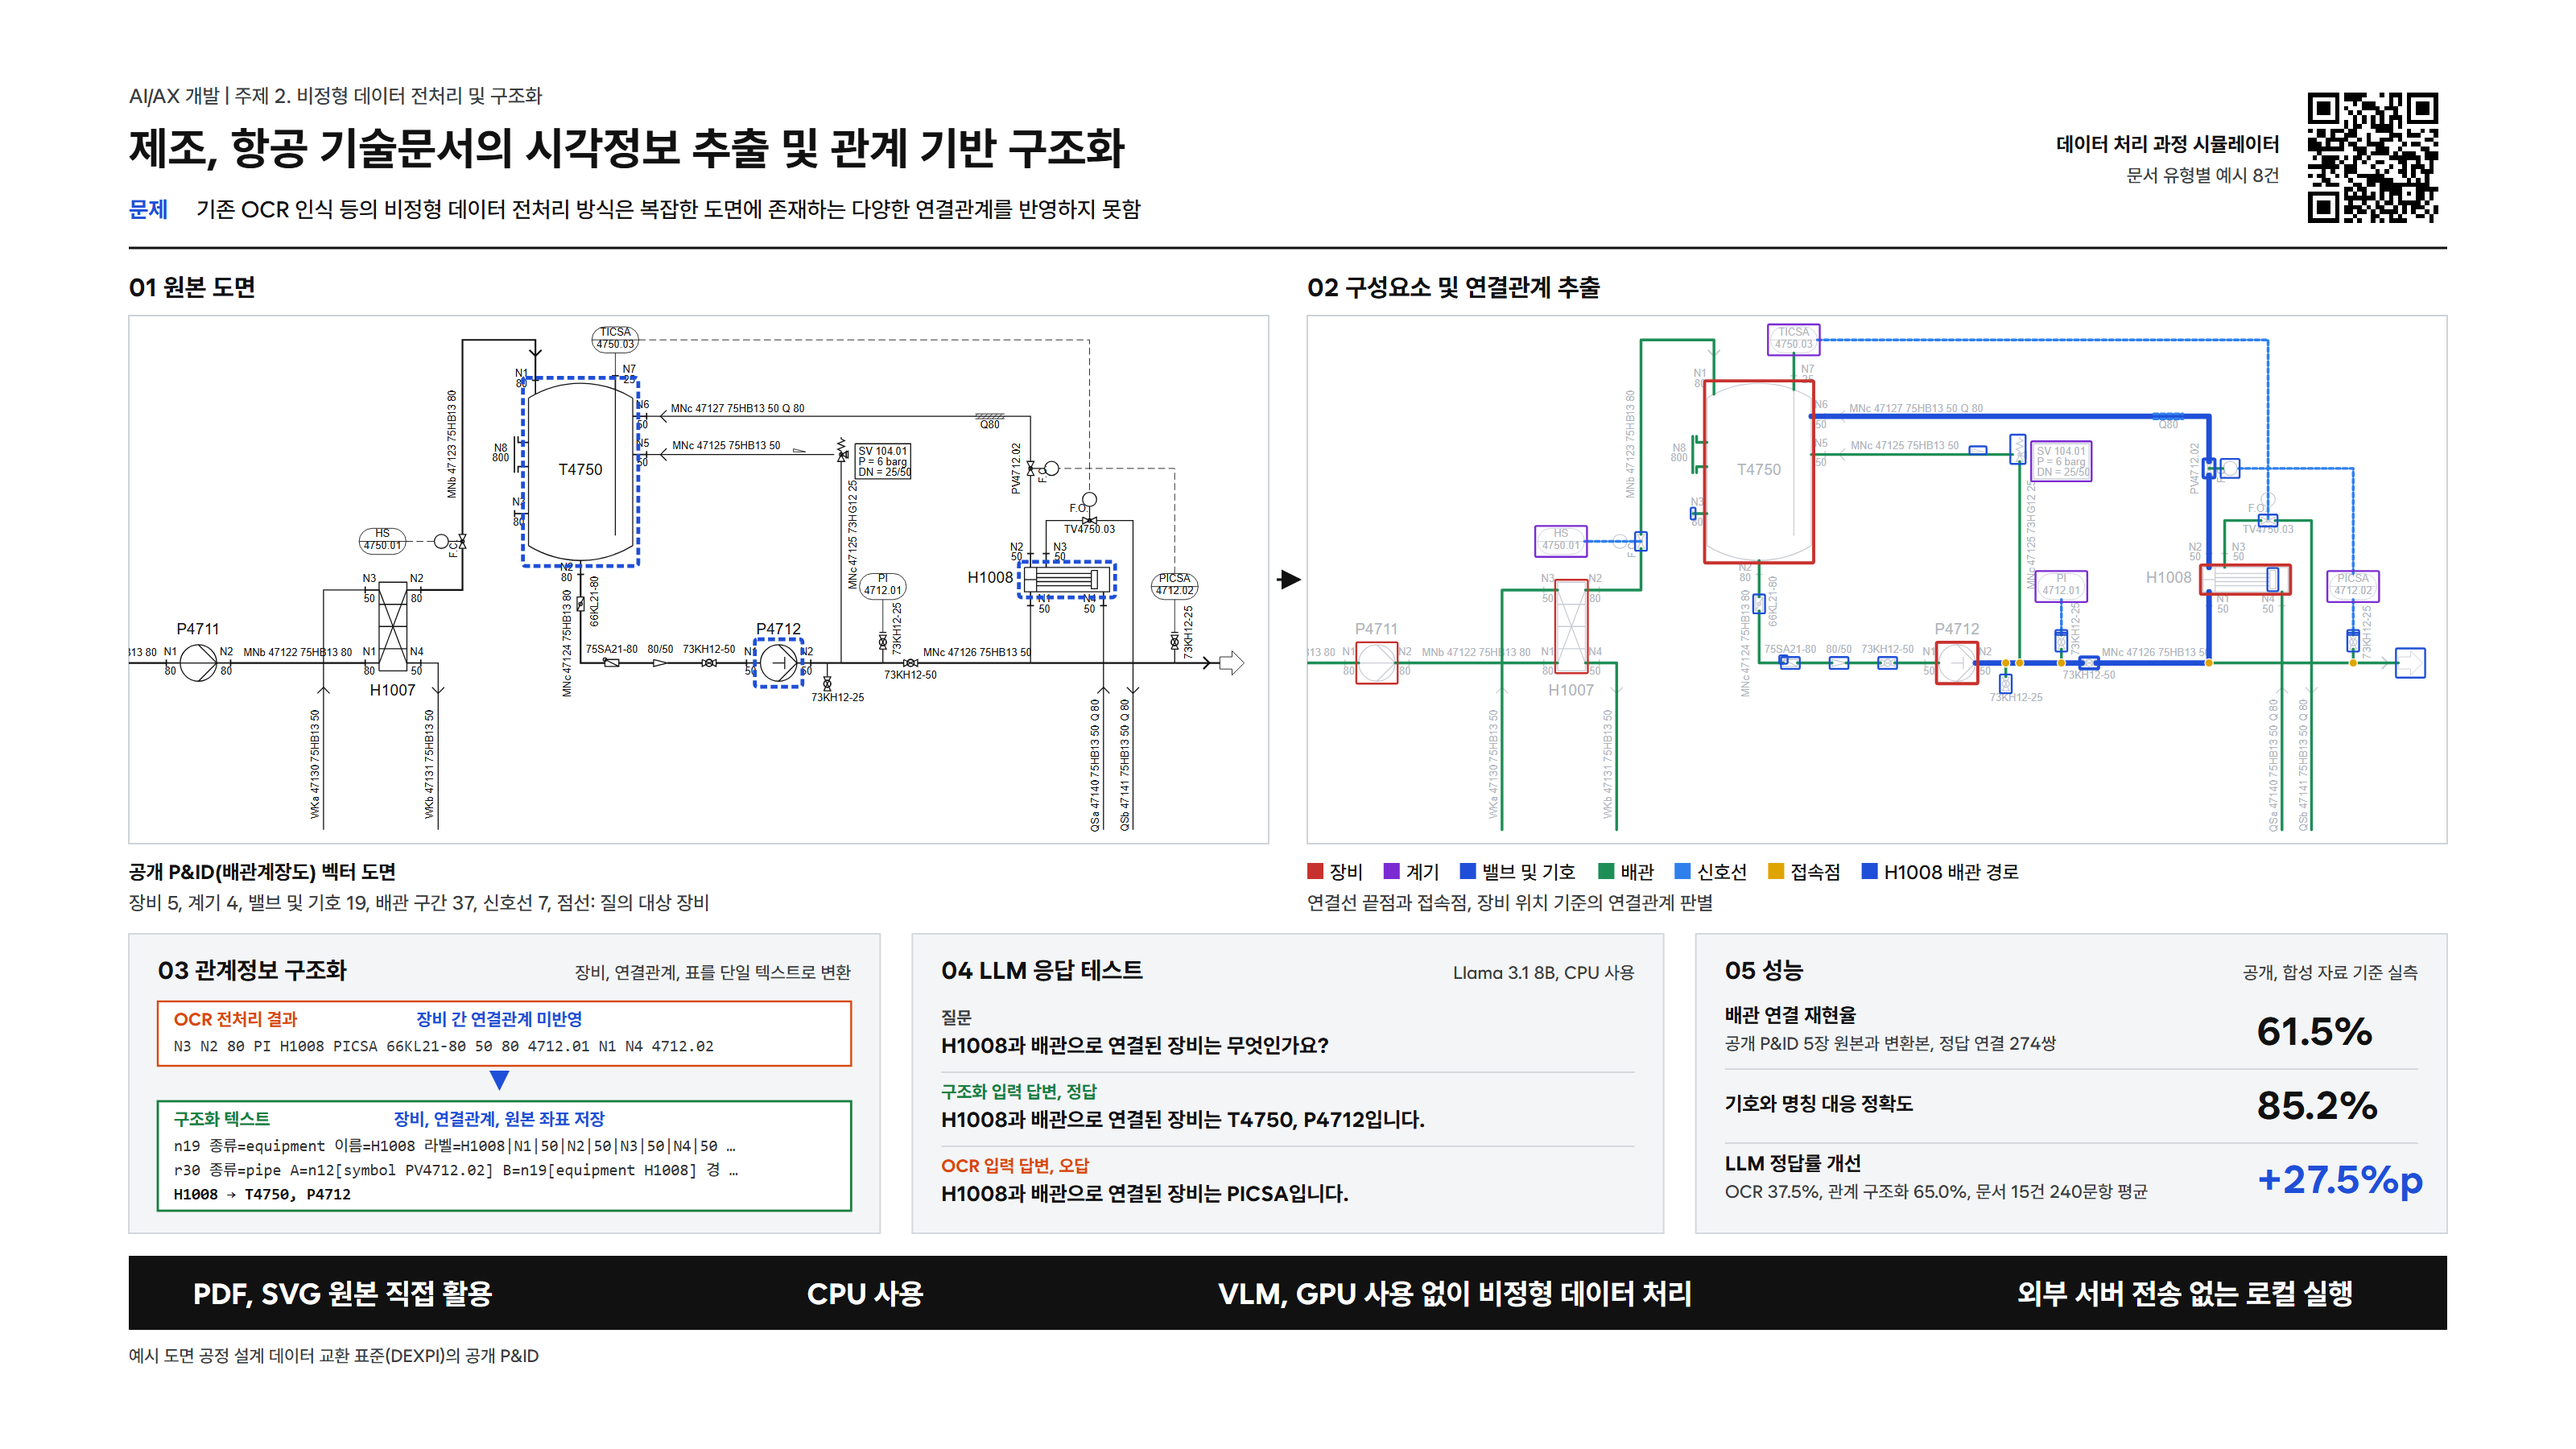
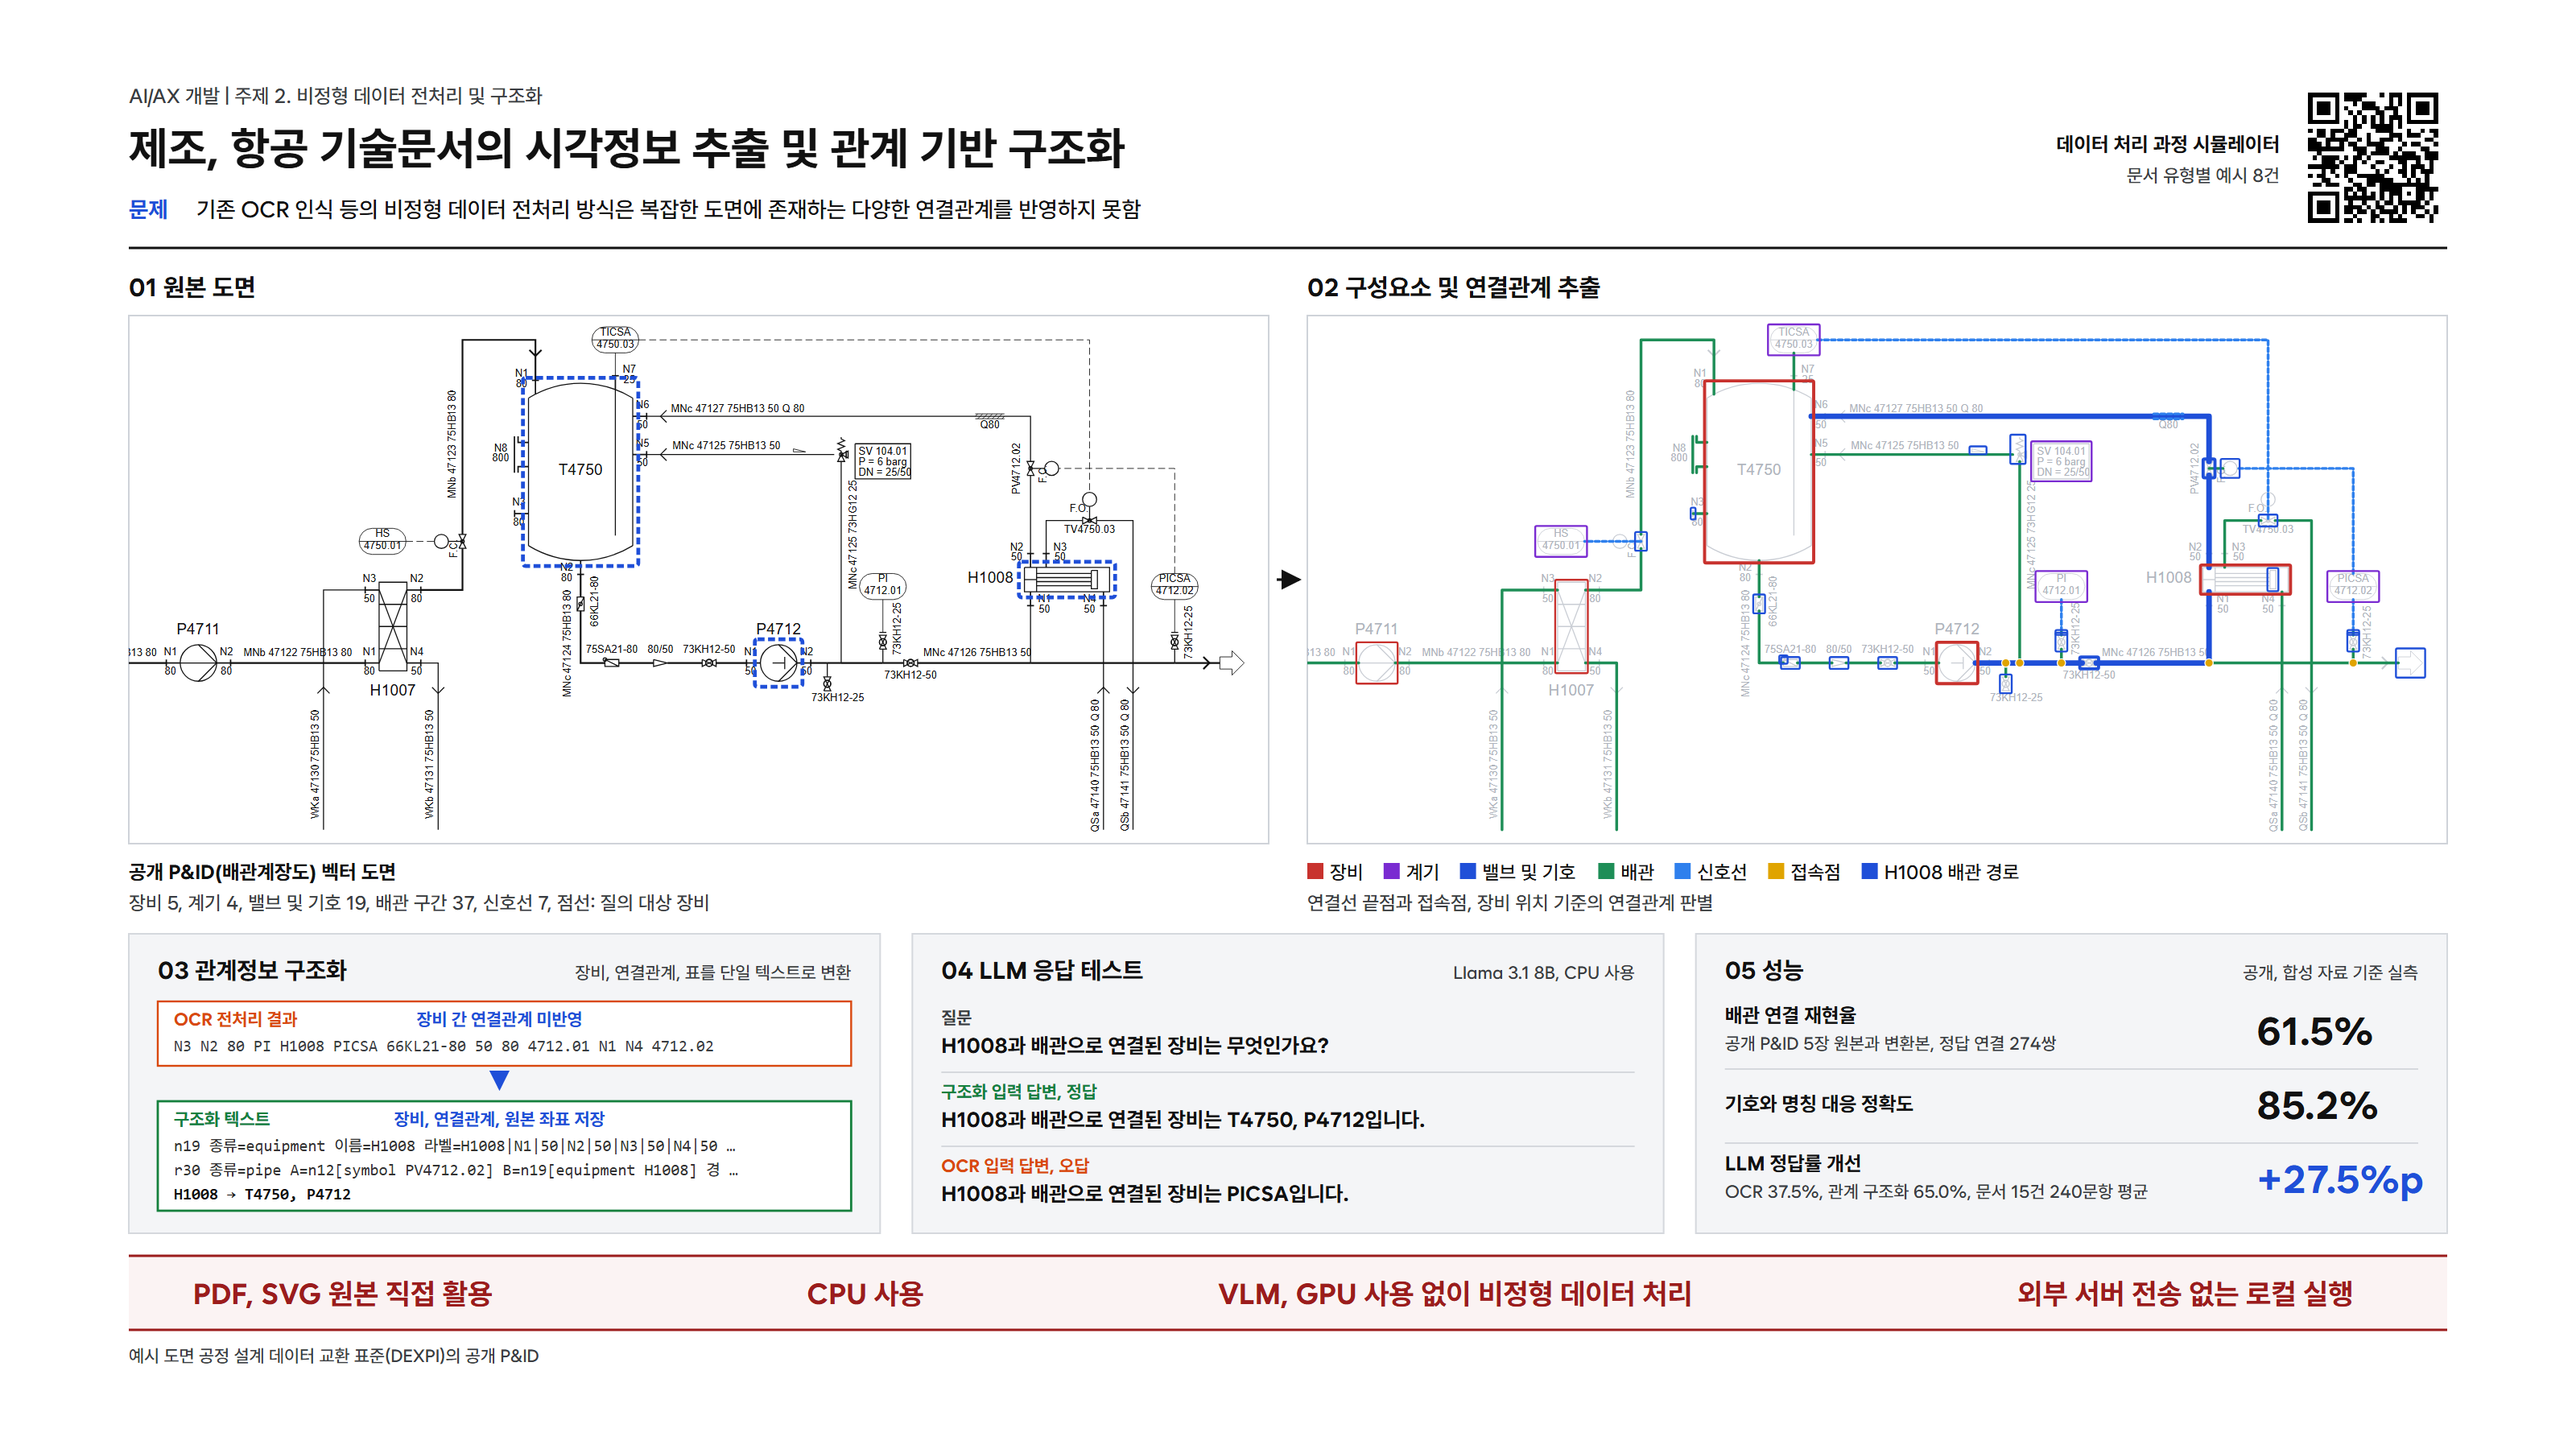
1장 슬라이드: 하단 네 항목을 진한 빨강 글씨로

Changed region(s): [[0.0312, 0.84, 0.9688, 0.9333]]

diff --git a/docs/figures/1장-도면-관계-구조화.html b/docs/figures/1장-도면-관계-구조화.html
@@ -1282,10 +1282,12 @@
 <text x="1071.3333333333335" y="727" font-size="12.5" font-weight="700" fill="#111111" text-anchor="start">LLM 정답률 개선</text>
 <text x="1071.3333333333335" y="744" font-size="11" font-weight="400" fill="#3A3D42" text-anchor="start">OCR 37.5%, 관계 구조화 65.0%, 문서 15건 240문항 평균</text>
 <text x="1401.65" y="741" font-size="24" font-weight="700" fill="#1F4FD8" text-anchor="start">+27.5%p</text>
-<rect x="80" y="780" width="1440" height="46" rx="0" stroke="none" fill="#111111" stroke-width="1"/>
-<text x="120" y="810" font-size="18" font-weight="700" fill="#FFFFFF" text-anchor="start">PDF, SVG 원본 직접 활용</text>
-<text x="501.28666666666663" y="810" font-size="18" font-weight="700" fill="#FFFFFF" text-anchor="start">CPU 사용</text>
-<text x="756.3133333333333" y="810" font-size="18" font-weight="700" fill="#FFFFFF" text-anchor="start">VLM, GPU 사용 없이 비정형 데이터 처리</text>
-<text x="1253.1599999999999" y="810" font-size="18" font-weight="700" fill="#FFFFFF" text-anchor="start">외부 서버 전송 없는 로컬 실행</text>
+<rect x="80" y="780" width="1440" height="46" rx="0" stroke="none" fill="#FBF3F3" stroke-width="1"/>
+<line x1="80" y1="780" x2="1520" y2="780" stroke="#9B1C1C" stroke-width="1.6"/>
+<line x1="80" y1="826" x2="1520" y2="826" stroke="#9B1C1C" stroke-width="1.6"/>
+<text x="120" y="810" font-size="18" font-weight="700" fill="#9B1C1C" text-anchor="start">PDF, SVG 원본 직접 활용</text>
+<text x="501.28666666666663" y="810" font-size="18" font-weight="700" fill="#9B1C1C" text-anchor="start">CPU 사용</text>
+<text x="756.3133333333333" y="810" font-size="18" font-weight="700" fill="#9B1C1C" text-anchor="start">VLM, GPU 사용 없이 비정형 데이터 처리</text>
+<text x="1253.1599999999999" y="810" font-size="18" font-weight="700" fill="#9B1C1C" text-anchor="start">외부 서버 전송 없는 로컬 실행</text>
 <text x="80" y="846" font-size="11" font-weight="400" fill="#3A3D42" text-anchor="start">예시 도면  공정 설계 데이터 교환 표준(DEXPI)의 공개 P&amp;ID</text>
 </svg></body></html>

diff --git a/docs/figures/make_slide.py b/docs/figures/make_slide.py
@@ -230,12 +230,14 @@ for k, (big, s1, s2, col) in enumerate(mets):
     if k < 2: out.append(f'<line x1="{IX[2]}" y1="{yy + 42}" x2="{IX[2] + IW}" y2="{yy + 42}" stroke="#D5D8DD" stroke-width="1"/>')
 
 BY = YB + CH + 14
-rect(L, BY, R - L, 46, "none", INK)
+DRED = "#9B1C1C"   # 진한 빨강
+rect(L, BY, R - L, 46, "none", "#FBF3F3")
+hline(L, R, BY, DRED, 1.6); hline(L, R, BY + 46, DRED, 1.6)
 band = ["PDF, SVG 원본 직접 활용", "CPU 사용", "VLM, GPU 사용 없이 비정형 데이터 처리", "외부 서버 전송 없는 로컬 실행"]   # 네 항목을 같은 간격의 공백으로 구분
 bw = [width(b, 18, True) * 1.07 for b in band]; gap = (R - L - 80 - sum(bw)) / (len(band) - 1)
 bx = L + 40
 for b, w_ in zip(band, bw):
-    t(bx, BY + 30, b, 18, True, "#FFFFFF"); bx += w_ + gap
+    t(bx, BY + 30, b, 18, True, DRED); bx += w_ + gap
 t(L, BY + 66, "예시 도면  공정 설계 데이터 교환 표준(DEXPI)의 공개 P&ID", 11, False, GR, maxw=R - L)
 if BY + 66 > H - 8: sys.exit(f"세로 초과 {BY + 66}")
 
